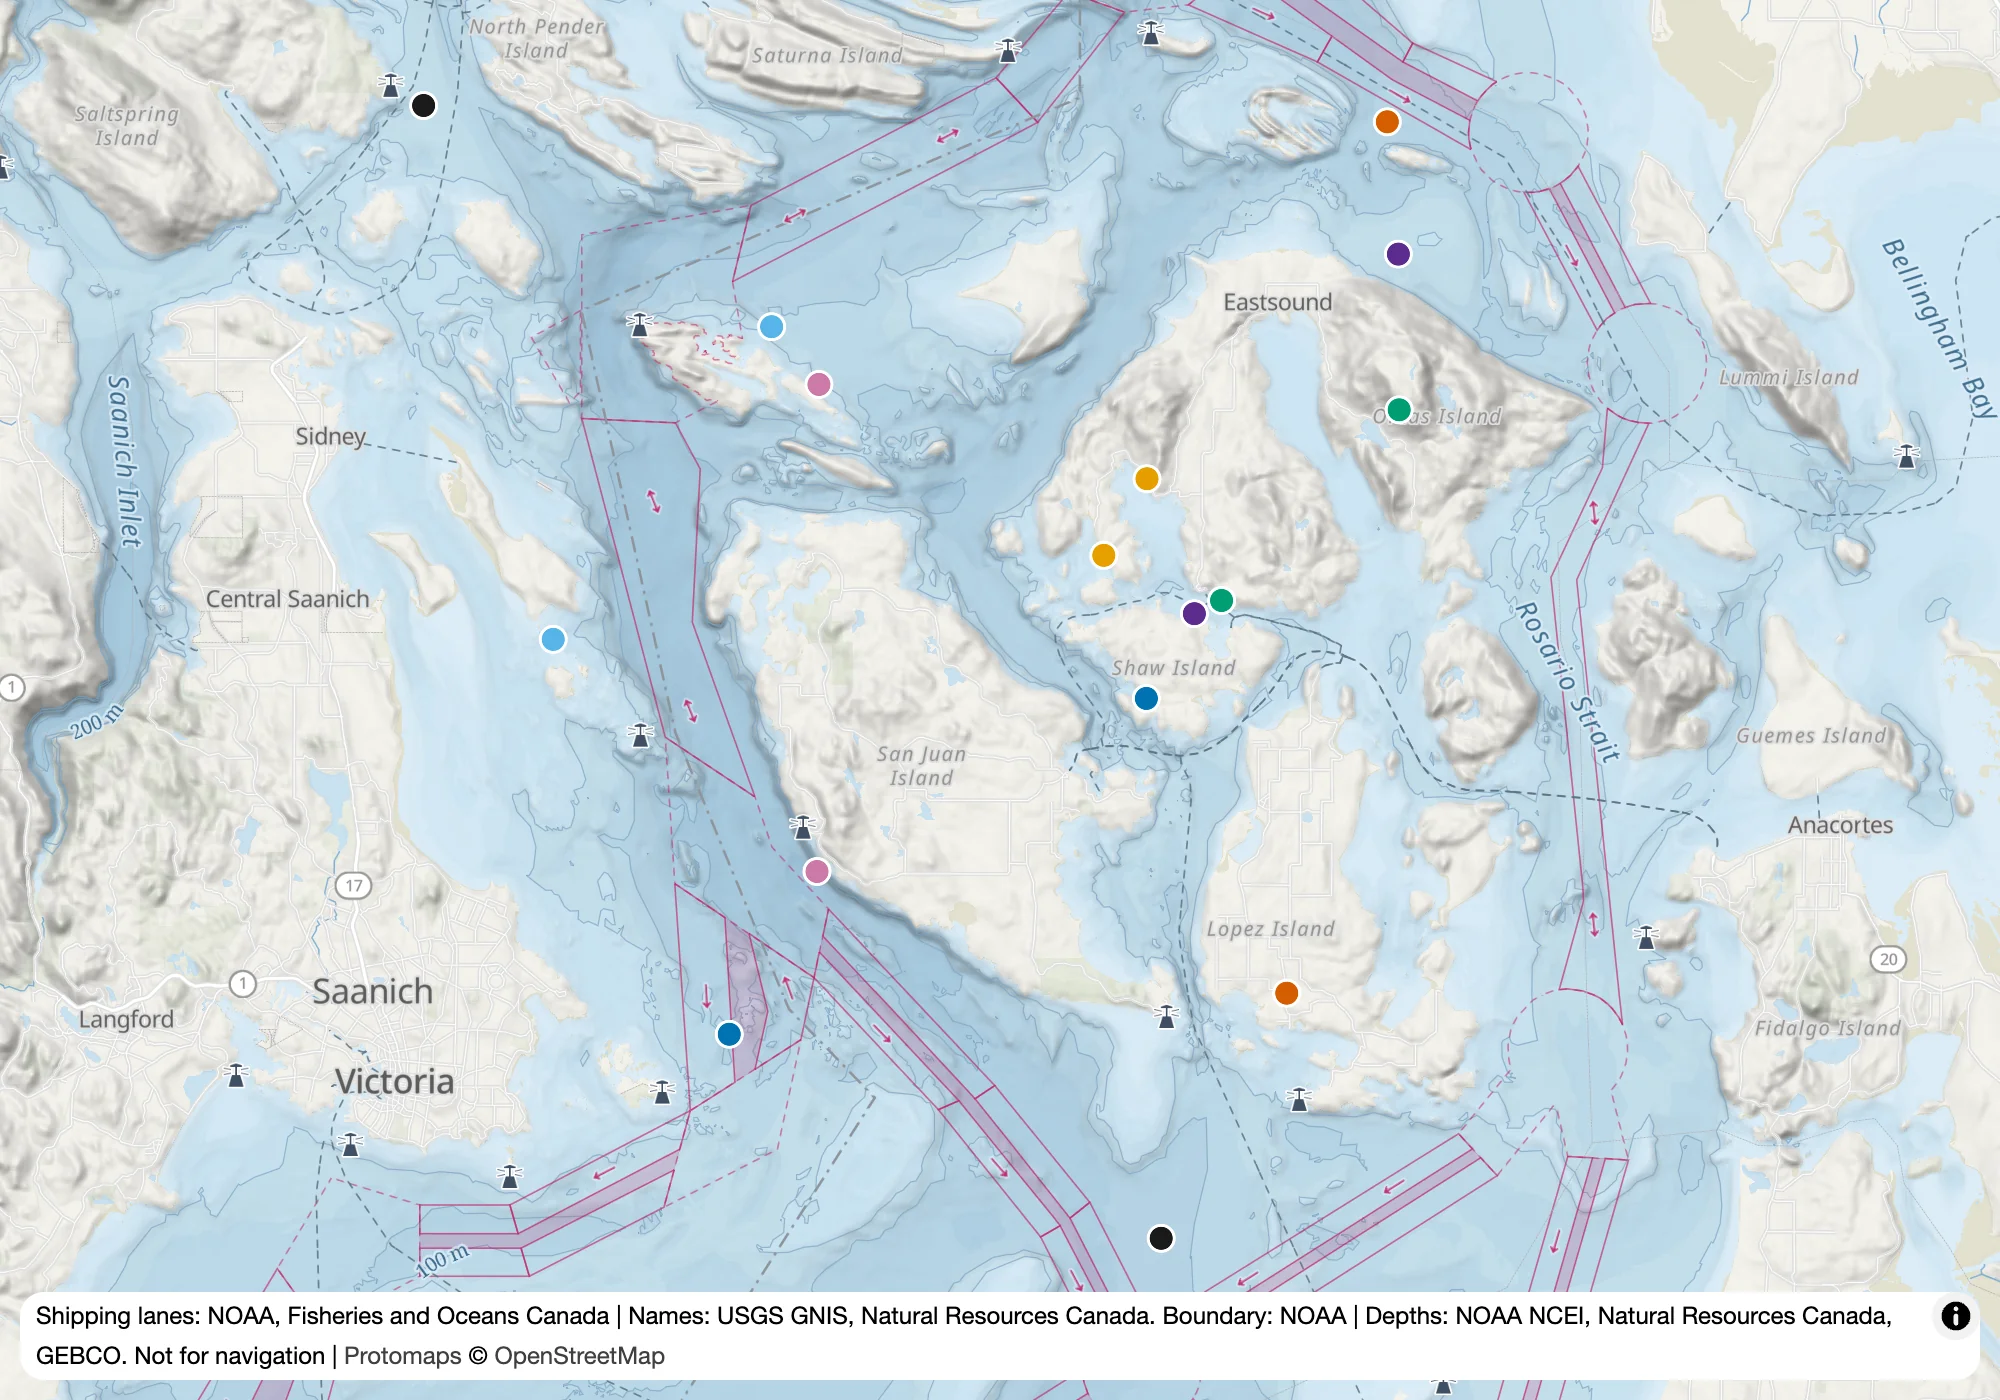
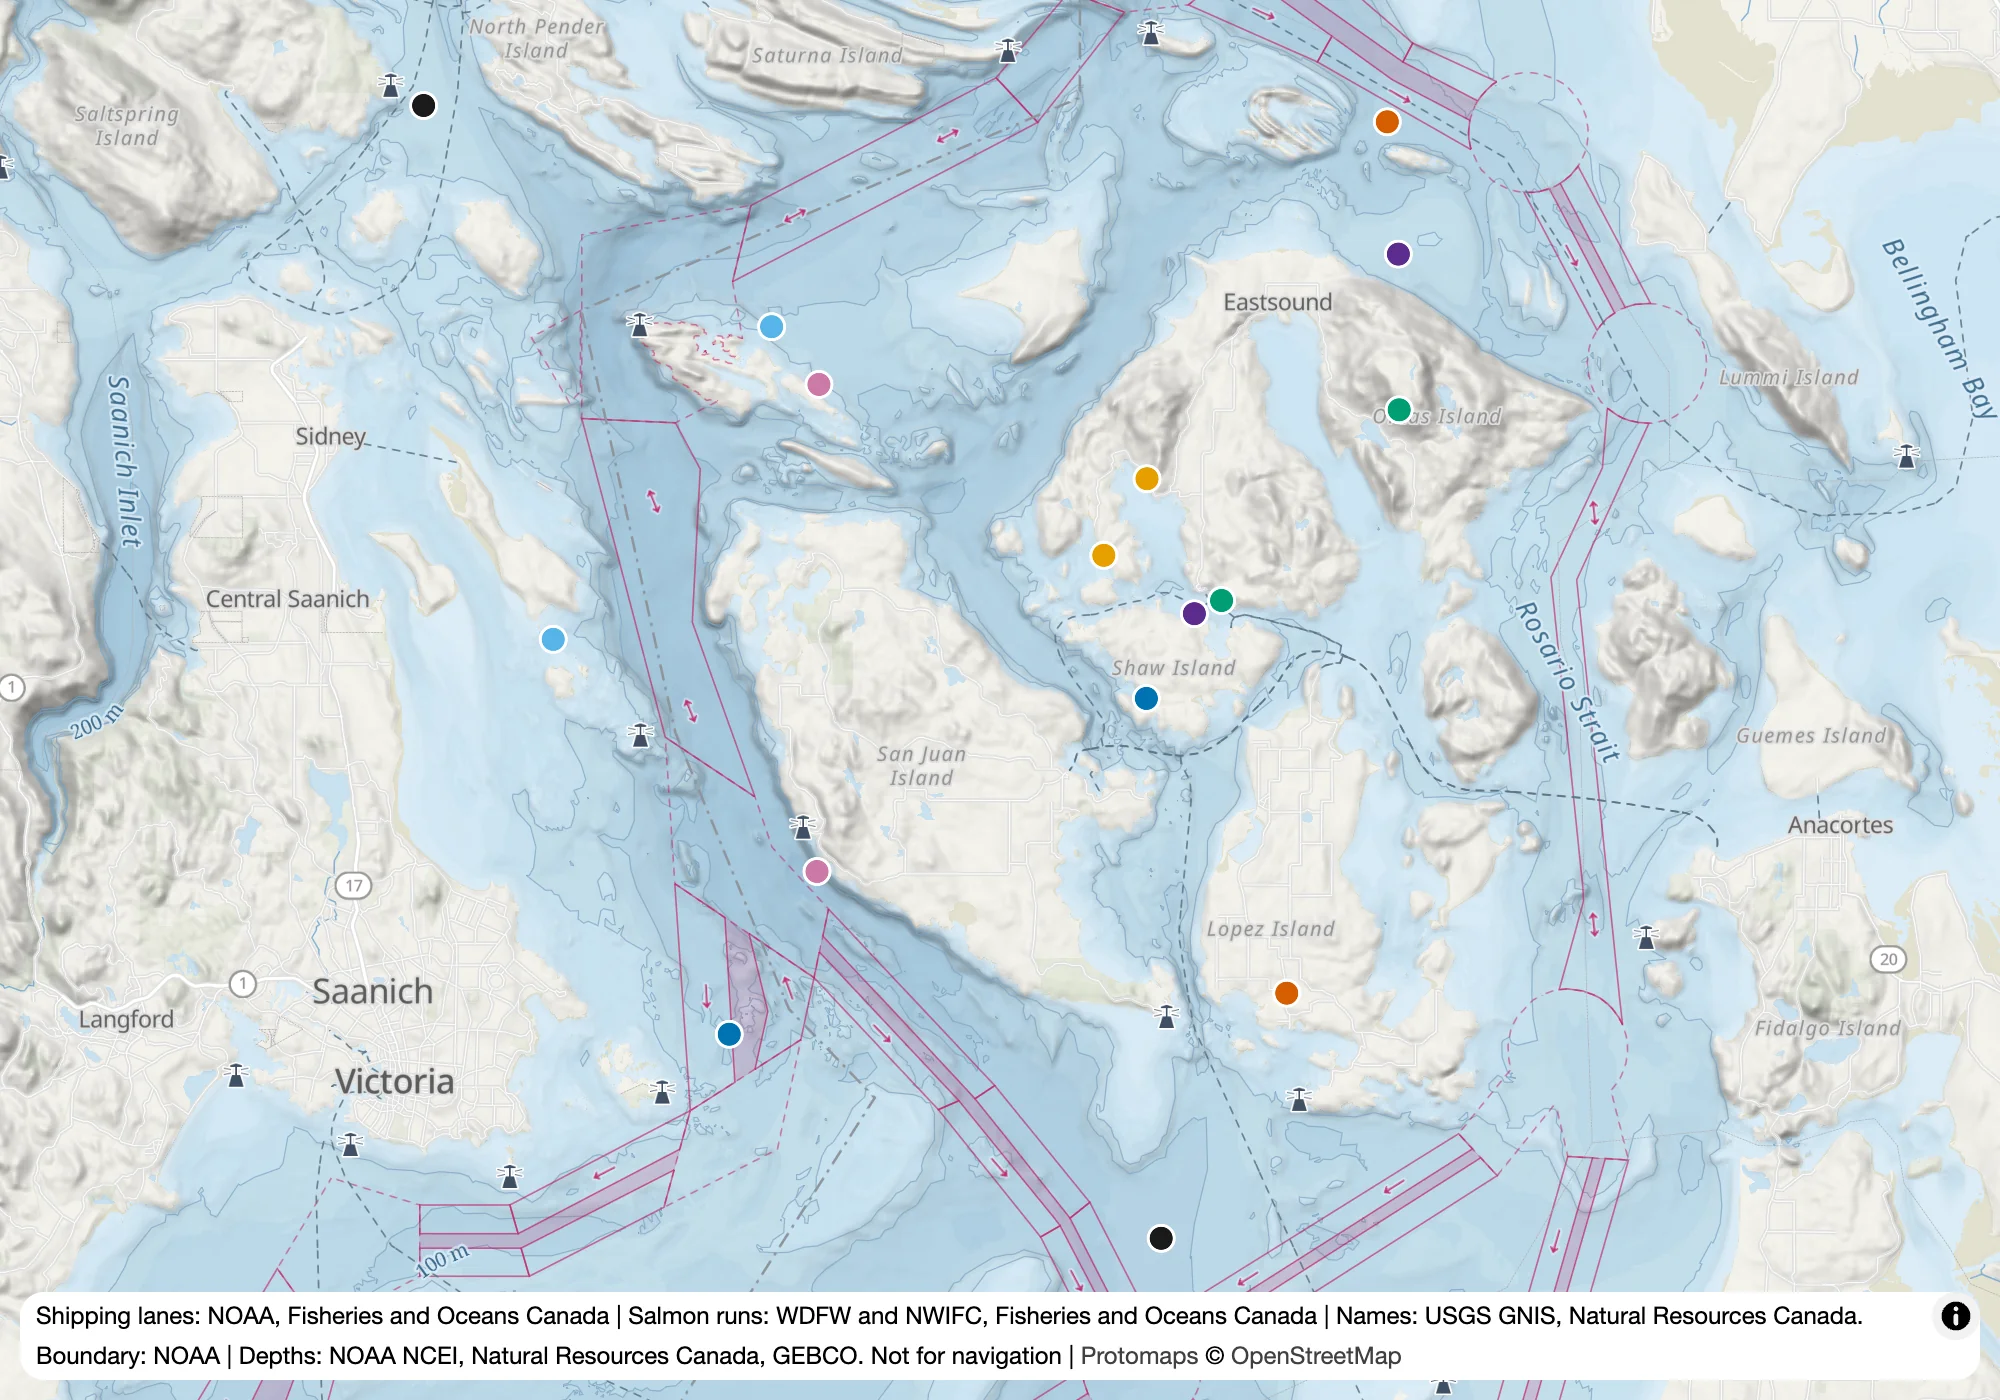
README pictures: the Skagit's salmon runs, and the attribution now crediting their sources

Changed region(s): [[0.0, 0.9214, 0.961, 0.9829]]

diff --git a/scripts/pictures.ts b/scripts/pictures.ts
@@ -39,6 +39,8 @@ const VIEWS: View[] = [
   { file: 'overview.webp', at: '9.4/48.56/-123.05', size: [1000, 700], sightings: true, needs: [-123.6, 48.3, -122.5, 48.8] },
   { file: 'zoom14.webp', at: '14/48.5157/-123.145', size: [1000, 700], needs: [-123.17, 48.5, -123.12, 48.53] },
   { file: 'rivers.webp', at: '10/48.40/-122.28', size: [1000, 700], needs: [-122.63, 48.25, -121.93, 48.55] },
+  // The Skagit's runs at the mouth of its South Fork, where the delta meets the flats (decisions/020).
+  { file: 'salmon.webp', at: '10.6/48.30/-122.42', size: [1000, 700], needs: [-122.7, 48.15, -122.2, 48.45] },
   // Haro Strait's two-way route and the lanes off Victoria, with their arrows (decisions/019).
   { file: 'lanes.webp', at: '10.6/48.37/-123.13', size: [1000, 700], sightings: true, needs: [-123.45, 48.22, -122.8, 48.52] },
   // The whole range, which at z5.15 fills the picture.

diff --git a/README.md b/README.md
@@ -85,6 +85,10 @@ Everything the style needs, the labels' fonts and the icons included, is served 
 
 *Off Victoria at zoom 10.6: the Strait of Juan de Fuca's lanes meet Haro Strait's, under the sightings.*
 
+![The Skagit delta at MapLibre zoom 10.6: the river's forks reaching the tidal flats of Skagit Bay, and at the South Fork's mouth the label "Skagit River" with its runs beneath: Chinook (spring, summer, fall), coho, chum (fall), pink (odd years), sockeye, steelhead (summer, winter).](docs/images/salmon.webp)
+
+*The Skagit's runs at zoom 10.6, labelled where its South Fork reaches the flats of Skagit Bay.*
+
 ## What it is built from
 
 | Layer | Source | Terms |
